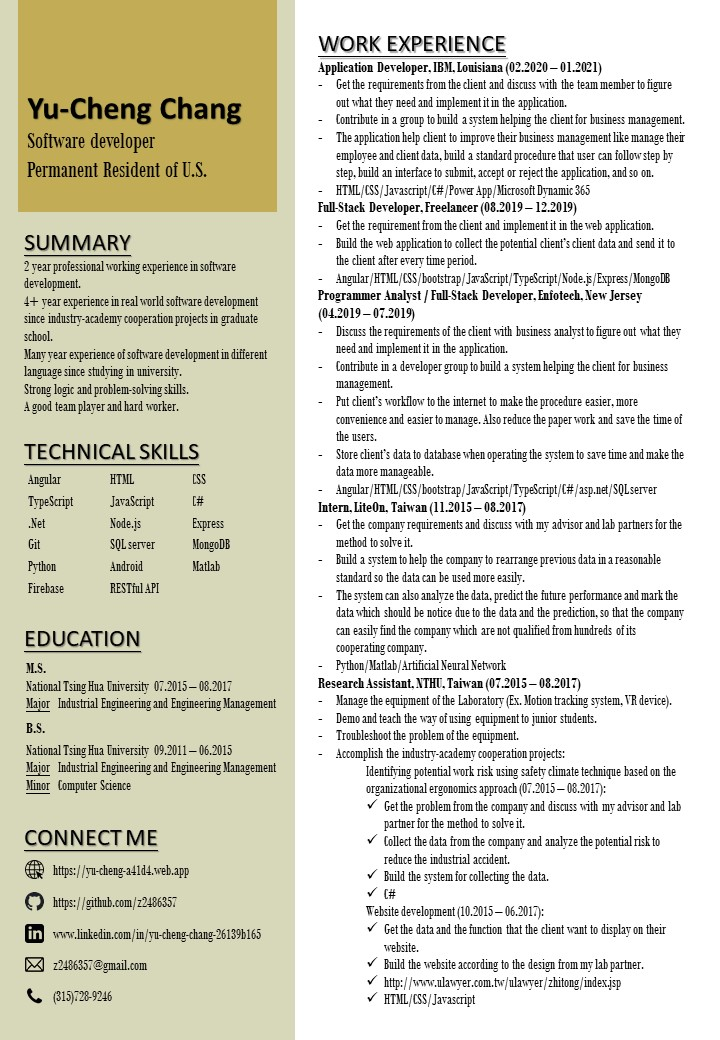
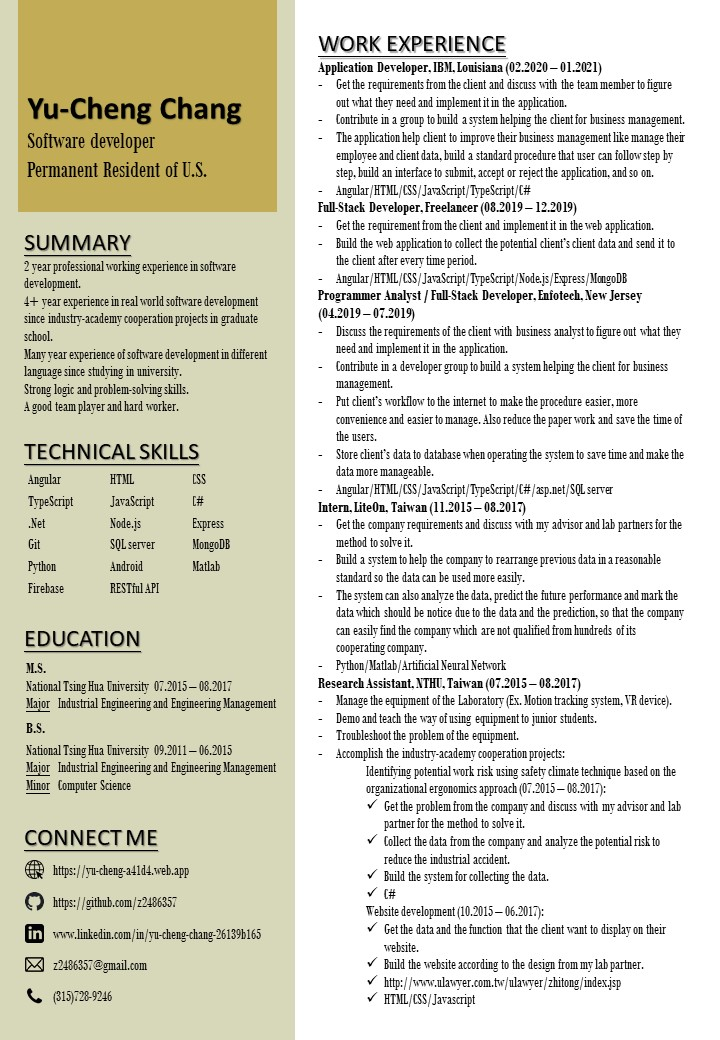
update

Changed region(s): [[0.5806, 0.2462, 0.9472, 0.2769], [0.5806, 0.4615, 0.9167, 0.4923], [0.4583, 0.1538, 0.7639, 0.1846]]

diff --git a/src/app/profile/profile-store.service.ts b/src/app/profile/profile-store.service.ts
@@ -9,12 +9,11 @@ export class ProfileStoreService {
       name: "ibm",
       topic: "Application Developer",
       secondTopic: "IBM",
-      period: "02.2020 - now",
+      period: "02.2020 - 01.2021",
       type: "work",
       detail: false,
-      description: ["- Use Power App and Microsoft Dynamic 365 to develop the sketch of the app",
-        "- Use HTML/CSS/Javascript for the customized code of front-end",
-        "- Use C# for the customized code of back-end"],
+      description: ["- Get the requirements from the client and discuss with the team member to figure out what they need and implement it in the application.",
+        "- Contribute in a group to build a system helping the client for business management."],
     },
     free: {
       name: "free",
@@ -23,9 +22,8 @@ export class ProfileStoreService {
       period: "08.2019 - 12.2019",
       type: "work",
       detail: false,
-      description: ["- Build the web application to collect the potential client data",
-        "- Use Angular to build the front-end of the website",
-        "- Use Node.js and Express for back-end"],
+      description: ["- Get the requirement from the client and implement it in the web application.",
+        "- Build the web application to collect the potential client’s client data and send it to the client after every time period."],
     },
     enfotech: {
       name: "enfotech",
@@ -34,9 +32,8 @@ export class ProfileStoreService {
       period: "04.2019 - 07.2019",
       type: "work",
       detail: false,
-      description: ["- Use Angular to build the front-end of the website",
-        "- Use C# to build the API for connecting to SQL server",
-        "- Use asp.net and C# to maintain systems"],
+      description: ["- Discuss the requirements of the client with business analyst to figure out what they need and implement it in the application.",
+        "- Contribute in a developer group to build a system helping the client for business management."],
     },
     military: {
       name: "military",
